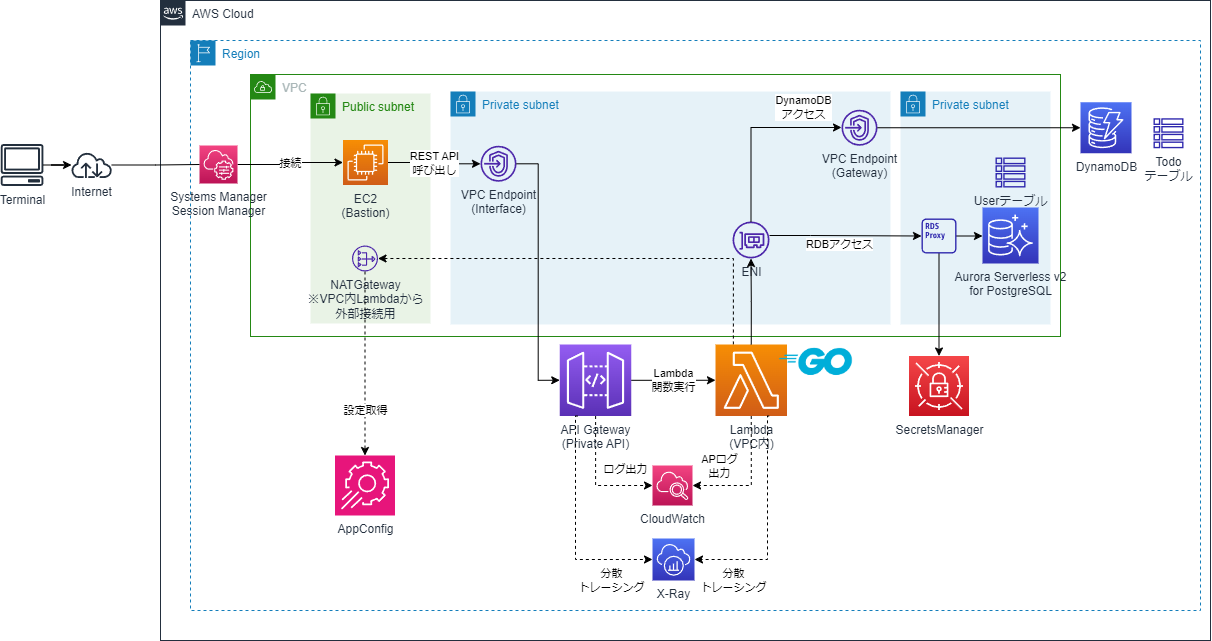
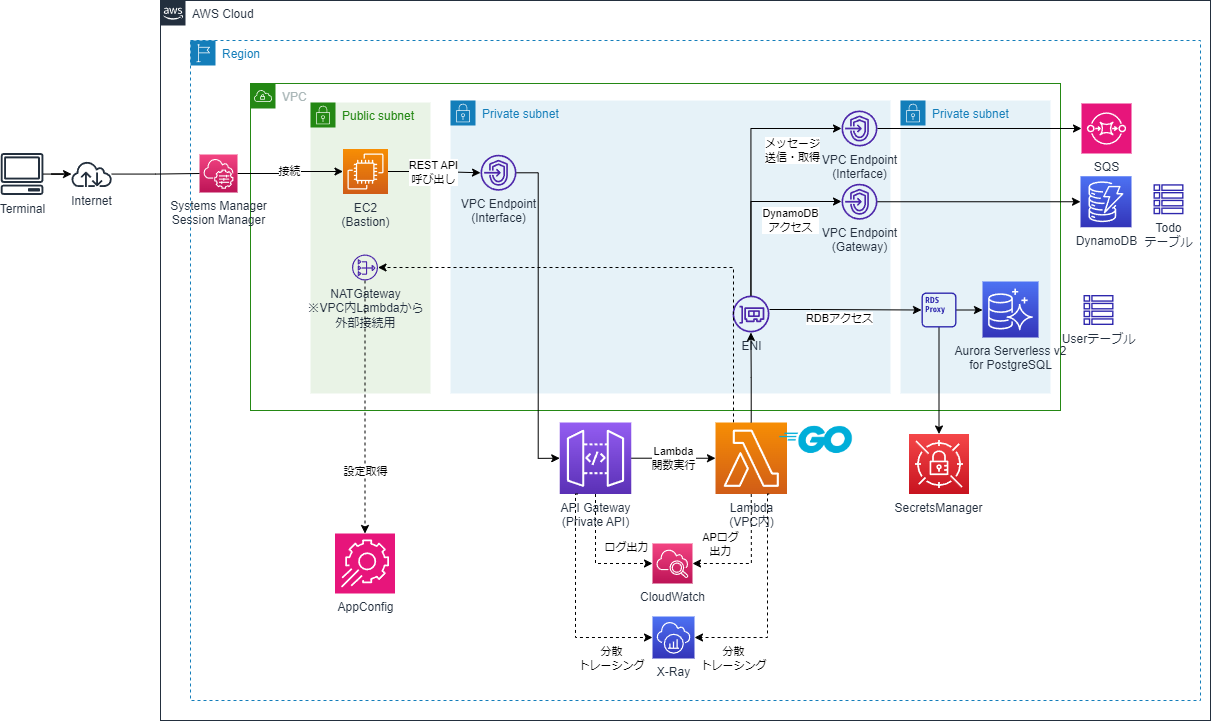
README修正

diff --git a/README.md b/README.md
@@ -3,7 +3,7 @@
 ## 構成イメージ
 * API GatewayをPrivate APIで公開
     * VPC内にEC2で構築した、Bastionからアクセスする
-* LambdaからDynamoDBやRDS AuroraへのDBアクセスを実現
+* LambdaからDynamoDBやRDS AuroraへのDBアクセス、SQSへのアクセスを実現
     * LambdaはVPC内Lambdaとして、RDS Aurora（RDS Proxy経由）でのアクセスも可能としている
 * AWS SDK for Go v2に対応
     * AWS SDKやX-Ray SDKの利用方法がv1の時と変更になっている
@@ -12,7 +12,7 @@
 
 * Lambda間の呼び出しイメージ
     * サンプルAP上、直接User API、Todo APIサービスを呼ぶこともできるがバックエンドサービス扱い
-    * BFFからバックエンドの各サービスへアクセスできるという呼び出し関係になっている
+    * BFFからバックエンドの各サービスへアクセスする、SQSを介してディレード実行するという呼び出し関係になっている    
 
 ![呼び出しイメージ](image/demo2.png)
 
@@ -23,6 +23,7 @@
 ![X-Rayの可視化の例](image/xray-aurora.png)
 ![X-Rayの可視化の例2](image/xray-dynamodb.png)
 ![X-Rayの可視化の例3](image/xray-bff.png)
+![X-Rayの可視化の例4](image/xray-sqs-delayed.png)
 
 * RDS Proxyの利用時の注意（ピン留め）
     * SQLを記載するにあたり、従来はプリペアドステートメントを使用するのが一般的であるが、RDS Proxyを使用する場合には、[ピン留め(Pinning)](https://docs.aws.amazon.com/AmazonRDS/latest/UserGuide/rds-proxy-managing.html#rds-proxy-pinning)という現象が発生してしまう。その間、コネクションが切断されるまで占有されつづけてしまい再利用できず、大量のリクエストを同時に処理する場合にはコネクション枯渇し性能面に影響が出る恐れがある。
@@ -343,6 +344,7 @@ make delete
 aws cloudformation delete-stack --stack-name Demo-Bastion-Stack
 aws cloudformation delete-stack --stack-name Demo-AppConfigDeploy-Stack
 aws cloudformation delete-stack --stack-name Demo-AppConfig-Stack
+aws cloudformation delete-stack --stack-name Demo-SQS-Stack
 aws cloudformation delete-stack --stack-name Demo-DynamoDB-Stack
 aws cloudformation delete-stack --stack-name Demo-RDS-Stack
 aws cloudformation delete-stack --stack-name Demo-NATGW-Stack
